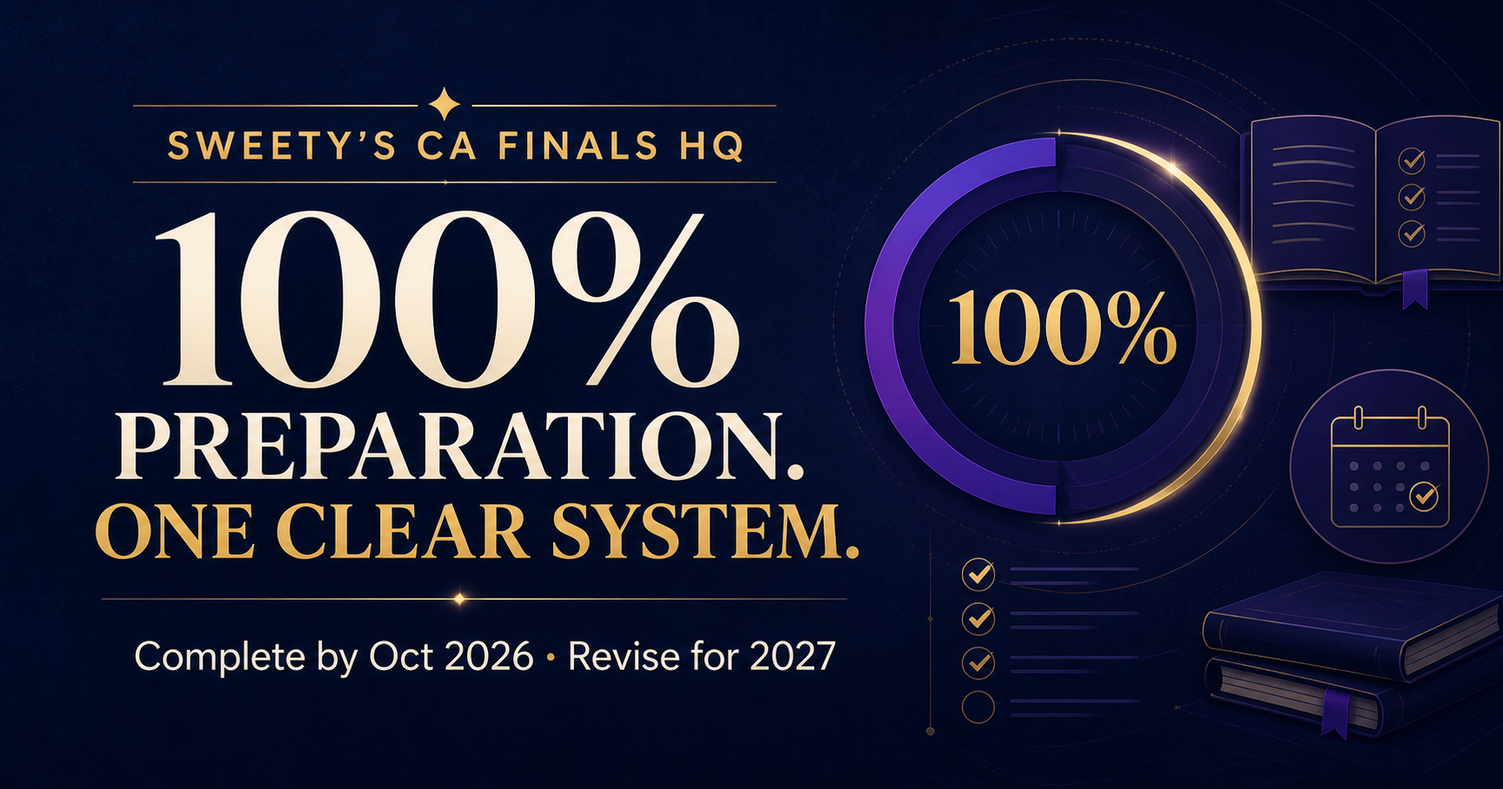
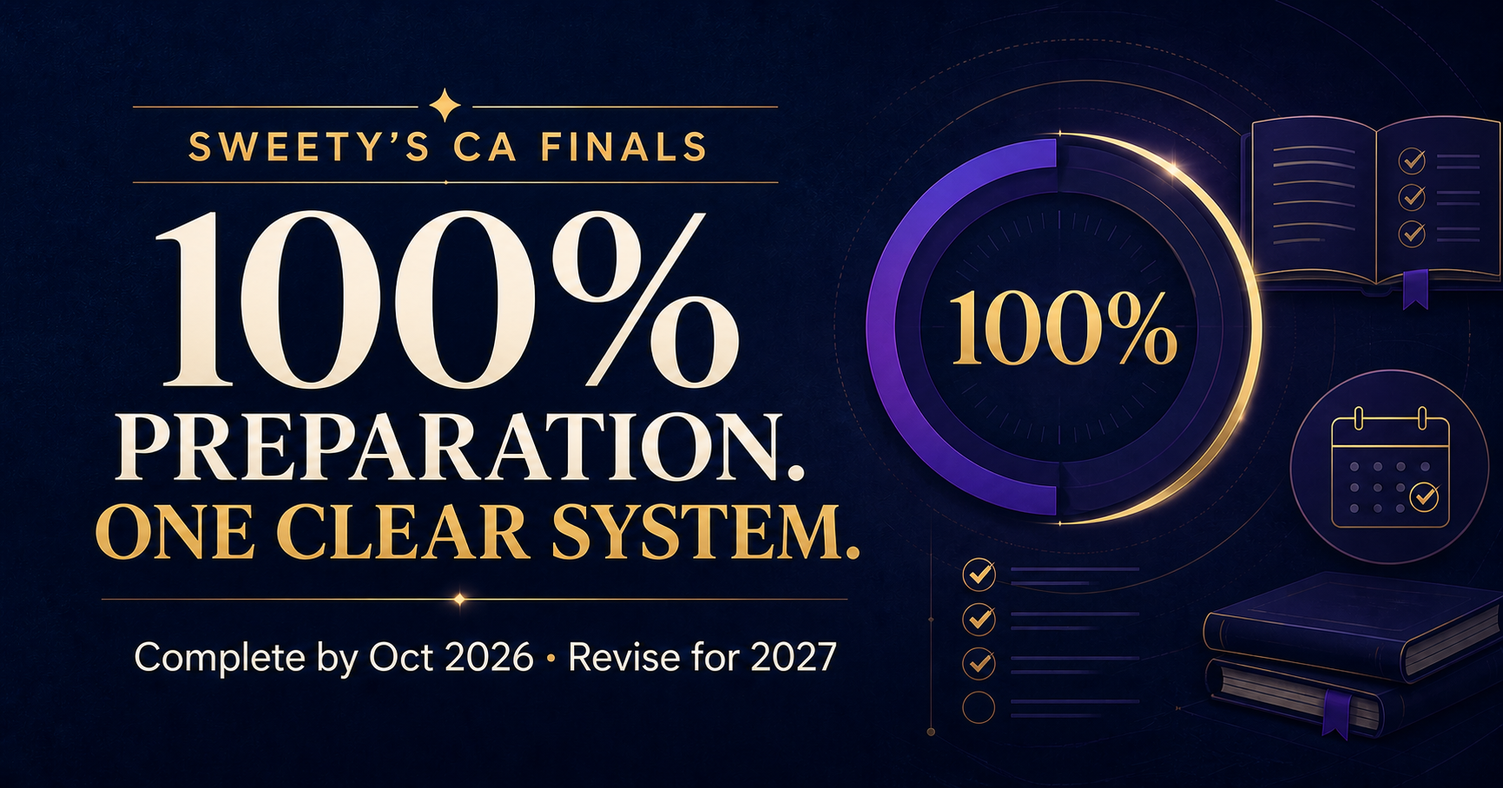
Complete production readiness and end-to-end fixes

diff --git a/app.js b/app.js
@@ -1,4 +1,4 @@
-/* Sweety's CA Finals HQ — framework-free vanilla JavaScript */
+/* Sweety's CA Finals — framework-free vanilla JavaScript */
 const STORAGE_KEY="sweety-ca-finals-vanilla-v1";
 const seed={progress:{},topicChecks:{},customTopics:{},topicActivity:{},tasks:[{id:1,text:"Solve FR consolidation practice set",subject:"FR",due:"Today",priority:"high",done:false},{id:2,text:"Revise Audit professional ethics",subject:"Audit",due:"Today",priority:"medium",done:false},{id:3,text:"Attempt one IBS case study",subject:"IBS",due:"This week",priority:"low",done:false}],roadmapChecks:{},checks:{}};
 let state=loadState(),tab="Home",paper="FR",timer=0,timerId=null;
@@ -14,10 +14,14 @@ function safeNote(html=""){const doc=new DOMParser().parseFromString(`<div>${htm
 function progressKey(code,index){return `${code}-${index}`}
 function allChapters(){return subjects.flatMap(s=>s.chapters.map((chapter,index)=>({s,chapter,index,key:progressKey(s.code,index)})))}
 function toast(message){const el=document.createElement("div");el.className="toast";el.textContent=message;document.body.append(el);setTimeout(()=>el.remove(),2500)}
+function openTextModal({title,placeholder="",action="Add",onSubmit}){document.querySelector(".text-modal-backdrop")?.remove();const backdrop=document.createElement("div");backdrop.className="text-modal-backdrop";backdrop.innerHTML=`<form class="text-modal" role="dialog" aria-modal="true" aria-labelledby="text-modal-title"><h2 id="text-modal-title">${esc(title)}</h2><input required maxlength="180" placeholder="${esc(placeholder)}"><div><button type="button" class="text-modal-cancel">Cancel</button><button class="primary">${esc(action)}</button></div></form>`;document.body.append(backdrop);const input=backdrop.querySelector("input"),close=()=>backdrop.remove();backdrop.querySelector(".text-modal-cancel").onclick=close;backdrop.onclick=e=>{if(e.target===backdrop)close()};backdrop.querySelector("form").onsubmit=e=>{e.preventDefault();const value=input.value.trim();if(!value)return;close();onSubmit(value)};input.focus()}
 function dateKey(date=new Date()){return `${date.getFullYear()}-${String(date.getMonth()+1).padStart(2,"0")}-${String(date.getDate()).padStart(2,"0")}`}
 function setProgress(key,patch){const previous=state.progress[key]||{};state.topicActivity=state.topicActivity||{};if(Object.prototype.hasOwnProperty.call(patch,"done")&&patch.done!==previous.done){if(patch.done){const day=dateKey();patch.completedAt=day;state.topicActivity[day]=(state.topicActivity[day]||0)+1}else if(previous.completedAt){state.topicActivity[previous.completedAt]=Math.max(0,(state.topicActivity[previous.completedAt]||0)-1);patch.completedAt=""}}state.progress[key]={...previous,...patch};saveState()}
 function setupNav(){document.querySelector("#nav").innerHTML=Object.entries(navItems).map(([name,icon])=>`<button class="nav-btn ${name===tab?"active":""}" data-tab="${name}"><span>${icon}</span>${name}</button>`).join("");document.querySelectorAll("[data-tab]").forEach(b=>b.onclick=()=>{tab=b.dataset.tab;render()})}
-function render(){if(tab==="Today")tab="Home";if(tab==="Syllabus")tab="Study Plan";setupNav();updateTopStats();title.innerHTML=`${tab==="Home"?"Good afternoon, Sweety":tab} <em>✦</em>`;subtitle.textContent=tab==="Home"?"See what matters today, then start studying.":tab==="Study Plan"?"Choose a subject, then tick each chapter as you complete it.":tab==="Tasks"?"Keep only the next actions you need to finish.":"Complete the syllabus, revise four times, and be ready for 30 April 2027.";({Home:renderToday,"Study Plan":renderSyllabus,Tasks:renderTasks,Roadmap:renderRoadmap}[tab])();if(tab==="Tasks")view.insertAdjacentHTML("afterbegin",taskCalendarHTML())}
+function render(){if(tab==="Today")tab="Home";if(tab==="Syllabus")tab="Study Plan";setupNav();updateTopStats();title.innerHTML=`${tab==="Home"?"Good afternoon, Sweety":tab} <em>✦</em>`;subtitle.textContent=tab==="Home"?"See what matters today, then start studying.":tab==="Study Plan"?"Choose a subject, then tick each chapter as you complete it.":tab==="Tasks"?"Keep only the next actions you need to finish.":"Complete the syllabus, revise four times, and be ready for 30 April 2027.";({Home:renderToday,"Study Plan":renderSyllabus,Tasks:renderTasks,Roadmap:renderRoadmap}[tab])();if(tab==="Home"){view.insertAdjacentHTML("beforeend",portableBackupHTML());bindPortableBackup()}if(tab==="Tasks")view.insertAdjacentHTML("afterbegin",taskCalendarHTML())}
+
+function portableBackupHTML(){return `<section class="portable-backup"><div><span>DATA SAFETY</span><h2>Keep your preparation portable.</h2><p>Export one backup containing progress, tasks, notes, links and locally attached documents. Restore it on a new browser or computer.</p></div><div><button type="button" id="quick-export">↓ Export backup</button><button type="button" id="quick-import">↑ Import backup</button></div></section>`}
+function bindPortableBackup(){document.querySelector("#quick-export").onclick=exportBackup;document.querySelector("#quick-import").onclick=()=>document.querySelector("#restore-input").click()}
 
 function studyHeatmapHTML(){const now=new Date(),months=[],milestones={"2026-10-31":"Syllabus completion deadline","2026-12-31":"Revision 1 deadline","2027-02-28":"Revision 2 deadline","2027-03-31":"Revision 3 deadline","2027-04-15":"Revision 4 and final PYQ deadline","2027-04-30":"CA Final attempt"};for(let offset=0;offset<16;offset++){const first=new Date(2026,offset,1),days=new Date(2026,offset+1,0).getDate(),cells=[];for(let blank=0;blank<first.getDay();blank++)cells.push('<i class="heat-day blank"></i>');for(let day=1;day<=days;day++){const date=new Date(first.getFullYear(),first.getMonth(),day,12),key=dateKey(date),count=state.topicActivity?.[key]||0,future=date>now,milestone=milestones[key],level=future?0:count===0?0:count===1?1:count<=3?2:count<=5?3:4,activity=`${count} topic${count===1?"":"s"} completed`,tip=milestone?`${date.toLocaleDateString(undefined,{weekday:"short",day:"numeric",month:"long",year:"numeric"})} — ${milestone} · ${activity}`:future?`${date.toLocaleDateString(undefined,{day:"numeric",month:"long",year:"numeric"})} — future date`:`${date.toLocaleDateString(undefined,{weekday:"short",day:"numeric",month:"long",year:"numeric"})} — ${activity}`;cells.push(`<i class="heat-day level-${level} ${future?"future":""} ${key===dateKey(now)?"today":""} ${milestone?"milestone":""}" title="${tip}" aria-label="${tip}">${day}${milestone?'<span class="milestone-dot"></span>':""}</i>`)}months.push(`<section class="heat-month"><h3>${first.toLocaleString(undefined,{month:"short"})} <small>${first.getFullYear()}</small></h3><div class="heat-weekdays">${["S","M","T","W","T","F","S"].map(x=>`<b>${x}</b>`).join("")}</div><div class="heat-month-grid">${cells.join("")}</div></section>`)}return `<section class="activity-card"><div class="activity-head"><div><h2>Study consistency & deadlines</h2><p>Scroll horizontally through April 2027. Purple-ringed dates are preparation milestones.</p></div><div class="calendar-controls"><button type="button" data-calendar-scroll="-1">← Earlier</button><span>2026 → 30 APRIL 2027</span><button type="button" data-calendar-scroll="1">Later →</button></div></div><div class="heat-scroll"><div class="heat-months">${months.join("")}</div></div><div class="heat-legend"><span>0 topics</span>${[0,1,2,3,4].map(n=>`<i class="heat-day level-${n}"></i>`).join("")}<span>6+ topics</span><i class="heat-day milestone"></i><span>Milestone</span></div></section>`}
 const frUnitTopics={"Presentation of General Purpose Financial Statements (Ind AS 1, 34 & 7)":["Ind AS 1 — Presentation of Financial Statements","Ind AS 34 — Interim Financial Reporting","Ind AS 7 — Statement of Cash Flows"],"Accounting Policies, Events after Reporting & Fair Value (Ind AS 8, 10 & 113)":["Ind AS 8 — Accounting Policies, Estimates and Errors","Ind AS 10 — Events after the Reporting Period","Ind AS 113 — Fair Value Measurement"],"Assets of Financial Statements (Ind AS 2, 16, 23, 36, 38, 40, 105 & 116)":["Ind AS 2 — Inventories","Ind AS 16 — Property, Plant and Equipment","Ind AS 23 — Borrowing Costs","Ind AS 36 — Impairment of Assets","Ind AS 38 — Intangible Assets","Ind AS 40 — Investment Property","Ind AS 105 — Assets Held for Sale","Ind AS 116 — Leases"],"Liabilities (Ind AS 19 & 37)":["Ind AS 19 — Employee Benefits","Ind AS 37 — Provisions and Contingencies"],"Income Taxes & Foreign Exchange (Ind AS 12 & 21)":["Ind AS 12 — Income Taxes","Ind AS 21 — Foreign Exchange Rates"],"Disclosures (Ind AS 24, 33 & 108)":["Ind AS 24 — Related Party Disclosures","Ind AS 33 — Earnings per Share","Ind AS 108 — Operating Segments"],"Other Ind AS (41, 20 & 102)":["Ind AS 41 — Agriculture","Ind AS 20 — Government Grants","Ind AS 102 — Share-based Payment"],"Financial Instruments (Ind AS 32, 107 & 109)":["Scope and definitions","Classification and measurement","Equity and financial liabilities","Derivatives and embedded derivatives","Recognition and derecognition","Hedge accounting","Financial instrument disclosures"],"Consolidated & Separate Financial Statements (Ind AS 110, 111, 28 & 27)":["Introduction and important definitions","Ind AS 110 — Consolidated Financial Statements","Consolidation procedure for subsidiaries","Ind AS 111 — Joint Arrangements","Ind AS 28 — Associates and Joint Ventures","Ind AS 27 — Separate Financial Statements","Group disclosure requirements"]};
@@ -75,6 +79,9 @@ async function strengthenLocalStorage(){try{if(navigator.storage?.persist)await 
 document.addEventListener("click",event=>{const checklistButton=event.target.closest?.("[data-checklist]");if(checklistButton){event.preventDefault();event.stopImmediatePropagation();const editor=checklistButton.closest(".rich-editor").querySelector(".editor-area");editor.focus();document.execCommand("insertHTML",false,'<span data-check="false" contenteditable="false">☐</span>&nbsp;');checklistButton.closest(".rich-editor").querySelector(".note-status").textContent="Unsaved changes";return}const check=event.target.closest?.(".editor-area [data-check]");if(check){event.preventDefault();check.dataset.check=check.dataset.check!=="true"?"true":"false";check.closest(".rich-editor").querySelector(".note-status").textContent="Unsaved changes"}},true);
 document.addEventListener("click",event=>{const paperButton=event.target.closest?.(".paper-tabs [data-paper]");if(!paperButton)return;event.preventDefault();event.stopImmediatePropagation();paper=paperButton.dataset.paper;render()},true);
 document.addEventListener("click",event=>{const chapterMain=event.target.closest?.(".chapter-main");if(!chapterMain||event.target.closest("button,input,a"))return;chapterMain.closest(".chapter")?.classList.toggle("open")});
+document.addEventListener("click",event=>{const createButton=event.target.closest?.(".create-subtopic");if(createButton){event.preventDefault();event.stopImmediatePropagation();const row=createButton.closest(".chapter"),index=Number(row.dataset.index),subject=subjects.find(x=>x.code===paper),key=row.dataset.key,items=chapterTopicNames(subject,subject.chapters[index]);openTextModal({title:"Create a new subtopic",placeholder:"Subtopic name",action:"Create",onSubmit:name=>{state.topicChecks=state.topicChecks||{};state.customTopics=state.customTopics||{};if(!state.topicChecks[key])state.topicChecks[key]=Object.fromEntries(items.map((_,i)=>[i,{done:!!state.progress[key]?.done,completedAt:state.progress[key]?.completedAt||""}]));state.customTopics[key]=state.customTopics[key]||[];state.customTopics[key].push({id:`${Date.now()}`,name,done:false,notesHtml:"",link:"",file:"",open:true});state.progress[key]={...(state.progress[key]||{}),done:false,completedAt:""};saveState();renderSyllabus();setTimeout(()=>document.querySelector(`[data-key="${key}"]`)?.classList.add("open"),0)}});return}const linkButton=event.target.closest?.(".rich-editor [data-link]");if(!linkButton)return;event.preventDefault();event.stopImmediatePropagation();const richEditor=linkButton.closest(".rich-editor"),editor=richEditor.querySelector(".editor-area"),status=richEditor.querySelector(".note-status");openTextModal({title:"Add a link to your notes",placeholder:"https://example.com",action:"Add link",onSubmit:url=>{if(!/^https?:\/\//i.test(url)){toast("Please enter a complete http or https link");return}editor.focus();document.execCommand("createLink",false,url);status.textContent="Unsaved changes"}})},true);
+document.addEventListener("input",event=>{const chapterLink=event.target.closest?.(".chapter .youtube");if(chapterLink){const key=chapterLink.closest(".chapter").dataset.key;state.progress[key]={...(state.progress[key]||{}),youtube:chapterLink.value};saveState();return}const customLink=event.target.closest?.(".custom-topic-link");if(!customLink)return;const row=customLink.closest(".chapter"),topic=state.customTopics?.[row.dataset.key]?.find(item=>String(item.id)===customLink.closest(".custom-topic").dataset.customTopic);if(topic){topic.link=customLink.value;saveState()}});
+document.addEventListener("click",event=>{const doneButton=event.target.closest?.(".chapter .done-btn");if(!doneButton)return;event.preventDefault();event.stopImmediatePropagation();const row=doneButton.closest(".chapter"),key=row.dataset.key,index=Number(row.dataset.index),subject=subjects.find(x=>x.code===paper),items=chapterTopicNames(subject,subject.chapters[index]),nextDone=!state.progress[key]?.done,day=dateKey();state.topicChecks=state.topicChecks||{};state.customTopics=state.customTopics||{};state.topicActivity=state.topicActivity||{};state.topicChecks[key]=state.topicChecks[key]||{};items.forEach((_,i)=>{const item=state.topicChecks[key][i]||{};if(nextDone&&!item.done){item.done=true;item.completedAt=day;state.topicActivity[day]=(state.topicActivity[day]||0)+1}else if(!nextDone&&item.done){if(item.completedAt)state.topicActivity[item.completedAt]=Math.max(0,(state.topicActivity[item.completedAt]||0)-1);item.done=false;item.completedAt=""}state.topicChecks[key][i]=item});(state.customTopics[key]||[]).forEach(item=>{if(nextDone&&!item.done){item.done=true;item.completedAt=day;state.topicActivity[day]=(state.topicActivity[day]||0)+1}else if(!nextDone&&item.done){if(item.completedAt)state.topicActivity[item.completedAt]=Math.max(0,(state.topicActivity[item.completedAt]||0)-1);item.done=false;item.completedAt=""}});state.progress[key]={...(state.progress[key]||{}),done:nextDone,completedAt:nextDone?day:""};saveState();renderSyllabus()},true);
 function upgradeNoteControls(root=document){root.querySelectorAll(".expand-note").forEach(oldButton=>{const controls=document.createElement("span");controls.className="note-size-controls";controls.innerHTML='<button type="button" class="note-size-btn" data-note-size="compact">− Shrink</button><button type="button" class="note-size-btn" data-note-size="large">＋ Expand</button><button type="button" class="note-size-btn" data-note-size="fullscreen">⛶ Full screen</button>';oldButton.replaceWith(controls)})}
 new MutationObserver(()=>upgradeNoteControls(view)).observe(view,{childList:true,subtree:true});
 document.addEventListener("click",event=>{const scrollButton=event.target.closest?.("[data-calendar-scroll]");if(scrollButton){document.querySelector(".heat-scroll")?.scrollBy({left:Number(scrollButton.dataset.calendarScroll)*520,behavior:"smooth"});return}const sizeButton=event.target.closest?.("[data-note-size]");if(!sizeButton)return;const editor=sizeButton.closest(".rich-editor"),size=sizeButton.dataset.noteSize,wasFullscreen=editor.classList.contains("note-fullscreen");editor.classList.remove("note-compact","note-large","note-fullscreen");document.body.classList.remove("notes-expanded");if(!(size==="fullscreen"&&wasFullscreen)){editor.classList.add(`note-${size}`);if(size==="fullscreen")document.body.classList.add("notes-expanded")}editor.querySelectorAll("[data-note-size]").forEach(button=>button.classList.toggle("active",editor.classList.contains(`note-${button.dataset.noteSize}`)));const fullscreenButton=editor.querySelector('[data-note-size="fullscreen"]');if(fullscreenButton)fullscreenButton.textContent=editor.classList.contains("note-fullscreen")?"✕ Close full screen":"⛶ Full screen"});

diff --git a/countdown.css b/countdown.css
@@ -1,2 +1,3 @@
 .exam-countdown{margin-bottom:18px;padding:25px 28px;border-radius:20px;color:#fff;background:linear-gradient(120deg,#23194c 0%,#473280 62%,#6246a1 100%);box-shadow:0 15px 35px rgba(46,31,91,.18);position:relative;overflow:hidden}.exam-countdown:after{content:"";position:absolute;width:230px;height:230px;border:1px solid rgba(255,255,255,.1);border-radius:50%;right:-90px;top:-120px}.exam-countdown-title{position:relative;z-index:1}.exam-countdown-title>span{font-size:.72rem;font-weight:900;letter-spacing:.14em;color:#d8ccf7}.exam-countdown-title h2{margin:7px 0 4px;font:700 clamp(1.75rem,3vw,2.6rem) Georgia}.exam-countdown-title p{margin:0;color:#ded6f2;font-size:.85rem}.exam-metrics{display:grid;grid-template-columns:repeat(3,1fr);gap:11px;margin:21px 0 17px;position:relative;z-index:1}.exam-metrics article{display:grid;padding:15px 17px;border:1px solid rgba(255,255,255,.14);border-radius:13px;background:rgba(255,255,255,.08)}.exam-metrics strong{font:700 1.75rem Georgia}.exam-metrics span{font-weight:800;font-size:.82rem;margin-top:2px}.exam-metrics small{color:#cfc5e8;font-size:.68rem;margin-top:4px}.exam-topic-progress{height:9px;background:rgba(255,255,255,.14);border-radius:99px;overflow:hidden}.exam-topic-progress span{display:block;height:100%;border-radius:inherit;background:linear-gradient(90deg,#75d09a,#b5edca)}.exam-countdown footer{display:flex;justify-content:space-between;gap:12px;margin-top:9px;color:#dcd3ef;font-size:.73rem}.exam-countdown footer b{color:#fff}@media(max-width:720px){.exam-countdown{padding:21px}.exam-metrics{grid-template-columns:1fr}.exam-metrics article{grid-template-columns:auto 1fr;column-gap:12px;align-items:center}.exam-metrics strong{grid-row:1/3}.exam-countdown footer{display:grid}}
 .top-stats{display:flex;align-items:center;gap:5px;max-width:min(68vw,980px);overflow-x:auto;padding:3px 1px;scrollbar-width:thin}.top-stats span{display:flex;align-items:baseline;gap:4px;padding:7px 9px;border:1px solid #e1dced;border-radius:999px;background:#f7f4fc;color:#716780;font-size:9px;white-space:nowrap}.top-stats b{color:#563b91;font-size:13px}.top-stats .stat-days{background:#eee8fc;border-color:#cfc2eb}.top-stats .stat-percent{background:#eaf7ef;border-color:#badfc8}.top-stats .stat-percent b{color:#28764a}@media(max-width:1000px){.topbar{flex-wrap:wrap}.top-actions{width:100%}.top-stats{order:3;max-width:100%;width:100%}.top-stats span{padding:6px 8px}.top-actions #focus-btn{order:1;margin-left:auto}.top-actions .profile{order:2}}@media(max-width:560px){.top-stats b{font-size:12px}.top-stats span{font-size:8px}}
+.portable-backup{display:flex;align-items:center;justify-content:space-between;gap:22px;margin-top:26px;padding:22px 24px;border:1px solid #ded8eb;border-radius:16px;background:#fff;box-shadow:0 6px 20px rgba(45,32,83,.055)}.portable-backup span{font-size:8px;font-weight:900;letter-spacing:.13em;color:#6850a5}.portable-backup h2{margin:5px 0;font:700 18px Georgia}.portable-backup p{max-width:720px;margin:0;color:#7b7488;font-size:11px;line-height:1.5}.portable-backup>div:last-child{display:flex;gap:8px;flex:none}.portable-backup button{border:1px solid #d7cee8;border-radius:9px;background:#fff;color:#6043a0;padding:10px 12px;font-size:10px;font-weight:800;cursor:pointer}.portable-backup #quick-export{border-color:#6043a0;background:#6043a0;color:#fff}@media(max-width:720px){.portable-backup{align-items:stretch;flex-direction:column}.portable-backup>div:last-child{display:grid;grid-template-columns:1fr 1fr}}

diff --git a/subtopics.css b/subtopics.css
@@ -2,3 +2,4 @@
 .heat-months{grid-template-columns:repeat(17,126px)!important;min-width:2302px!important}.heat-month h3 small{font:700 7px Arial;color:#928aa2}.calendar-controls{display:flex;align-items:center;gap:7px}.calendar-controls button{border:1px solid #dcd5eb;background:#fff;color:#6045a0;border-radius:8px;padding:7px 9px;font-size:9px;font-weight:800;cursor:pointer}.calendar-controls span{white-space:nowrap}.heat-scroll{scroll-behavior:smooth;scrollbar-color:#8870b7 #ece8f2;scrollbar-width:thin}.chapter-detail{grid-template-columns:repeat(2,minmax(0,1fr))!important;gap:13px!important}.chapter-detail>.notes-field{grid-column:1/-1;grid-row:auto}.chapter-detail .editor-area{min-height:290px}.custom-topic-detail{grid-template-columns:repeat(2,minmax(0,1fr))}.custom-topic-detail .notes-field{grid-column:1/-1;grid-row:auto}.custom-topic-detail .editor-area{min-height:230px}.editor-footer>div{display:flex;gap:7px}.expand-note{border:1px solid #d8d0e8;border-radius:7px;background:#fff;color:#6045a0;padding:7px 11px;font-size:9px;font-weight:800;cursor:pointer}.rich-editor.expanded{position:fixed;inset:18px;z-index:100;background:#fff;border-radius:15px;box-shadow:0 24px 80px rgba(24,17,51,.4);display:flex;flex-direction:column}.rich-editor.expanded .editor-area{flex:1;min-height:0;font-size:15px;padding:22px}.rich-editor.expanded .expand-note{background:#6045a0;color:#fff}body.notes-expanded{overflow:hidden}@media(max-width:720px){.calendar-controls{flex-wrap:wrap}.calendar-controls span{order:-1;width:100%}.chapter-detail,.custom-topic-detail{grid-template-columns:1fr!important}.rich-editor.expanded{inset:7px}}
 .note-size-controls{display:inline-flex;gap:5px;flex-wrap:wrap}.note-size-btn{border:1px solid #d8d0e8;border-radius:7px;background:#fff;color:#6045a0;padding:7px 9px;font-size:9px;font-weight:800;cursor:pointer}.note-size-btn.active{background:#6045a0;color:#fff}.rich-editor.note-compact .editor-area{min-height:95px!important;max-height:135px}.rich-editor.note-large .editor-area{min-height:520px!important}.rich-editor.note-fullscreen{position:fixed;inset:18px;z-index:100;background:#fff;border-radius:15px;box-shadow:0 24px 80px rgba(24,17,51,.4);display:flex;flex-direction:column}.rich-editor.note-fullscreen .editor-area{flex:1;min-height:0!important;max-height:none!important;font-size:15px;padding:22px}.rich-editor.note-fullscreen [data-note-size="fullscreen"]{background:#6045a0;color:#fff}@media(max-width:720px){.rich-editor.note-fullscreen{inset:7px}.editor-footer{align-items:flex-start;gap:7px}.note-size-controls{margin-top:5px}}
 .heat-months{grid-template-columns:repeat(16,126px)!important;min-width:2166px!important}
+.text-modal-backdrop{position:fixed;inset:0;z-index:200;display:grid;place-items:center;padding:18px;background:rgba(20,14,43,.48);backdrop-filter:blur(3px)}.text-modal{width:min(440px,100%);padding:22px;border-radius:16px;background:#fff;box-shadow:0 25px 80px rgba(25,17,56,.32)}.text-modal h2{margin:0 0 15px;color:#242040;font:700 20px Georgia}.text-modal input{width:100%;border:1px solid #d9d3e6;border-radius:9px;padding:12px;font-size:14px;outline:0}.text-modal input:focus{border-color:#6651b7;box-shadow:0 0 0 3px rgba(102,81,183,.12)}.text-modal>div{display:flex;justify-content:flex-end;gap:8px;margin-top:15px}.text-modal-cancel{border:1px solid #ddd7e8;border-radius:9px;background:#fff;color:#615a70;padding:10px 14px;font-weight:800;cursor:pointer}

diff --git a/index.html b/index.html
@@ -5,23 +5,23 @@
   <meta name="viewport" content="width=device-width,initial-scale=1">
   <meta name="theme-color" content="#f3f7f2">
   <meta name="description" content="CA Final syllabus, revision, task and document tracker">
-  <meta property="og:title" content="Sweety's CA Finals HQ">
+  <meta property="og:title" content="Sweety's CA Finals">
   <meta property="og:description" content="100% preparation. One clear system.">
   <meta property="og:image" content="og.png">
   <link rel="icon" href="favicon.svg">
   <link rel="stylesheet" href="styles.css">
   <link rel="stylesheet" href="styles-extra.css?v=5">
   <link rel="stylesheet" href="roadmap.css?v=1">
-  <link rel="stylesheet" href="subtopics.css?v=3">
-  <link rel="stylesheet" href="countdown.css?v=3">
+  <link rel="stylesheet" href="subtopics.css?v=4">
+  <link rel="stylesheet" href="countdown.css?v=4">
   <link rel="stylesheet" href="structure.css?v=3">
   <link rel="stylesheet" href="task-date-cards.css?v=3">
-  <title>Sweety's CA Finals HQ</title>
+  <title>Sweety's CA Finals</title>
 </head>
 <body>
   <div class="app-shell">
     <div class="topbar">
-      <div class="brand"><span>CA</span><div><h1>Sweety’s CA Finals HQ</h1><small>Preparation command center · 30 April 2027</small></div></div>
+      <div class="brand"><span>CA</span><div><h1>Sweety’s CA Finals</h1><small>Preparation command center · 30 April 2027</small></div></div>
       <div class="top-actions"><div id="top-stats" class="top-stats"></div><button id="focus-btn">▶ Focus</button><div class="profile"><i>S</i><div><b>Sweety</b><small>CA Final</small></div></div></div>
     </div>
     <nav id="nav" class="tabs"></nav>
@@ -32,6 +32,6 @@
   </div>
   <input type="file" id="restore-input" accept=".cafinalbackup,application/json" hidden>
   <script src="data.js?v=5"></script>
-  <script src="app.js?v=13"></script>
+  <script src="app.js?v=16"></script>
 </body>
 </html>

diff --git a/README.md b/README.md
@@ -1,10 +1,10 @@
-# Sweety's CA Finals HQ — GitHub Pages Edition
+# Sweety's CA Finals — GitHub Pages Edition
 
 This edition uses only plain HTML, CSS and vanilla JavaScript. It has no framework, package manager, build step or server dependency.
 
 ## Publish on GitHub Pages
 
-1. Create a new GitHub repository, for example `ca-finals-hq`.
+1. Create a new GitHub repository, for example `sweety-ca-finals`.
 2. Upload every file from this `github-pages` folder to the repository root.
 3. Open the repository's **Settings**.
 4. Select **Pages** under **Code and automation**.
@@ -14,6 +14,6 @@ This edition uses only plain HTML, CSS and vanilla JavaScript. It has no framewo
 
 ## Data and documents
 
-Tracker data is stored in the browser used to visit the GitHub Pages address. Documents are stored in IndexedDB in that browser. Use **Resources → Export full backup** regularly. The `.cafinalbackup` file restores data and documents in a new browser or computer.
+Tracker data is stored in the browser used to visit the GitHub Pages address. Documents are stored in IndexedDB in that browser. Use **Home → Data Safety → Export backup** regularly. The `.cafinalbackup` file restores data and documents in a new browser or computer.
 
 Do not change the GitHub repository name after you begin using the tracker unless you export a backup first, because changing the Pages URL creates a different browser-storage origin.
